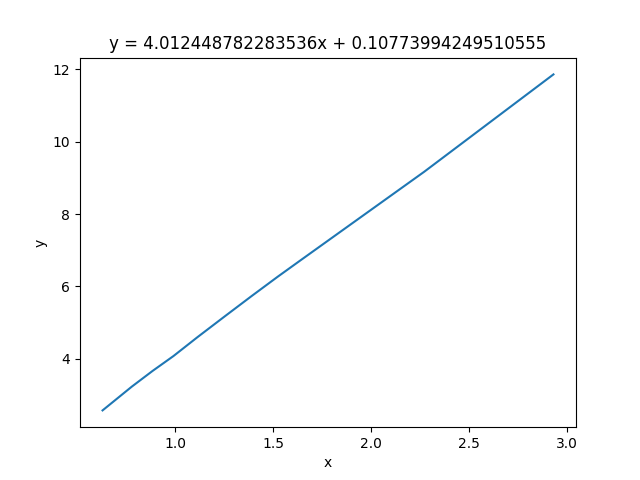
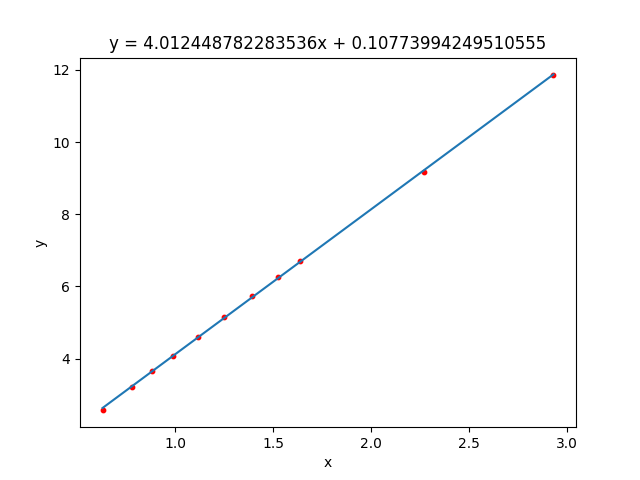
Graph plotter upgraded

diff --git a/Fisica/minquad.py b/Fisica/minquad.py
@@ -100,7 +100,13 @@ print("Coeficiente Angular: " + str(cangular) + " +- " + str(d_cangular) )
 print("Coeficiente Linear: " + str(clinear) + " +- " + str(d_b) )
 
 #plotando o grafico de X vs Y
-plt.plot(x_values , y_values)
+plt.scatter(x_values , y_values, c="red", s=10)
+y_final = []
+for x in x_values:
+    y_final.append((x*cangular) + clinear)
+
+plt.plot(x_values, y_final)
+
 plt.xlabel("x")
 plt.ylabel("y")
 plt.title("y = " + str(cangular) + "x + " + str(clinear) )
